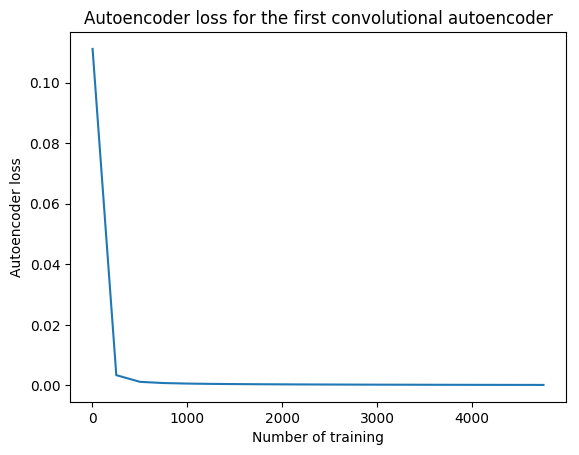
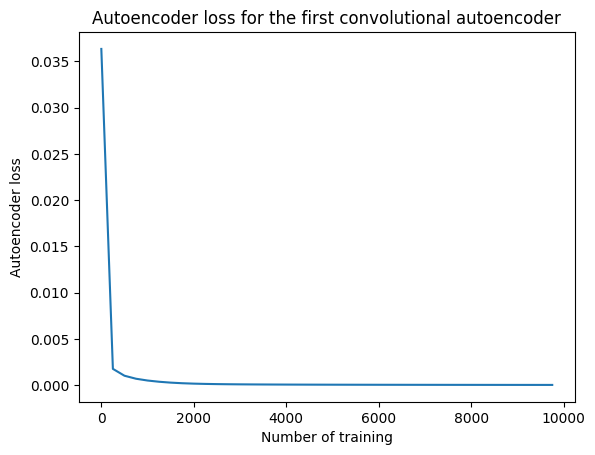
PanNet number of training 1

diff --git a/PanNet1_searching_num_train1.py b/PanNet1_searching_num_train1.py
@@ -14,9 +14,9 @@ tf.set_random_seed(123)
 np.random.seed(123)
 
 # Parameters
-num_filter1 = 120
+num_filter1 = 4
 learning_rates = 0.1
-num_training1 = 5000
+num_training1 = 10000
 
 # Default parameters
 num_input = 784
